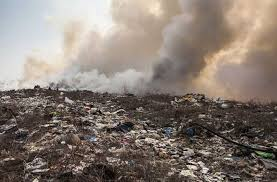
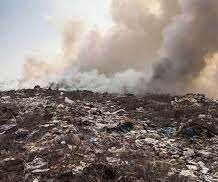
land and air

diff --git a/Airpollution.html b/Airpollution.html
@@ -23,7 +23,7 @@
   <h5>Agricultural Activities</h5>
     <p>Fumes from nitrogen-rich fertilizers and animal waste combine in the air with combustion emissions to form solid particles in the air.Agricultural air pollution comes mainly in form of ammonia, which enters the air as a gas from heavily fertilized fields and livestock waste.	</p> 
        
-  <h5>How Does Air Pollution Affect Animals</h5>
+  <h5>How Does Air Pollution Affect Animals?</h5>
   <p>All animals, despite their size, can be affected by pollution. Animals depend on oxygen that comes from the air, and when air is contaminated, harmful gases and particulates are inhaled.
   The pollution that animals inhale can accumulate in their tissues over time, causing damage to their organs.</p>
  
@@ -31,7 +31,7 @@
   <img src="air pollution 2.jpg" alt="smoke rising from factory pipes">
   <img src="air pollution 3.jpg" alt="smoke rising from factory pipes">
   <h5>Mining</h5>
-  <p>Mining operations like drilling, blasting, hauling, collection, and transporting are the major sources of emission air pollution. Coal left in the ground can catch on fire, and mine fires are difficult to control, with some burning for 
+  <p>Mining operations such as  drilling, blasting, hauling, collection, and transporting are the major sources of emission air pollution. Coal left in the ground can catch on fire, and mine fires are difficult to control, with some burning for 
 decades or even centuries, creating a major source or air pollution.  </p>
   <h5></h5>
 </div>

diff --git a/Landfills.html b/Landfills.html
@@ -16,13 +16,13 @@
 
 <div class="main">
   <h2>Landfills</h2>
-  <p>Facts about landfills:</p>
+  <p>Facts about landfills:<p>
   <p> Americans can throw away 4.4 to 5 pounds of trash a day.<p> 
   <p> Two thirds of landfills cause harmful gases such as Methane, C02, etc.<p> 
-  <p> About one third of an average dump is made of packing material.
-  <p> The United States is the #1 trash-producing country, with 1,609lbs per person, per year.
+  <p> About one third of an average dump is made of packing material.<p>
+  <p>The United States is the #1 trash-producing country, with 1,609lbs per person, each year.<p>
   
-   <img src="Landfill 1.jpg" alt="Landfill waste">
+   <img src="Landfill 1.jpg" alt="Landfill waste" height=265>
     <img src="Landfill 2.jpg" alt="Landfill waste">
 </div>
    
